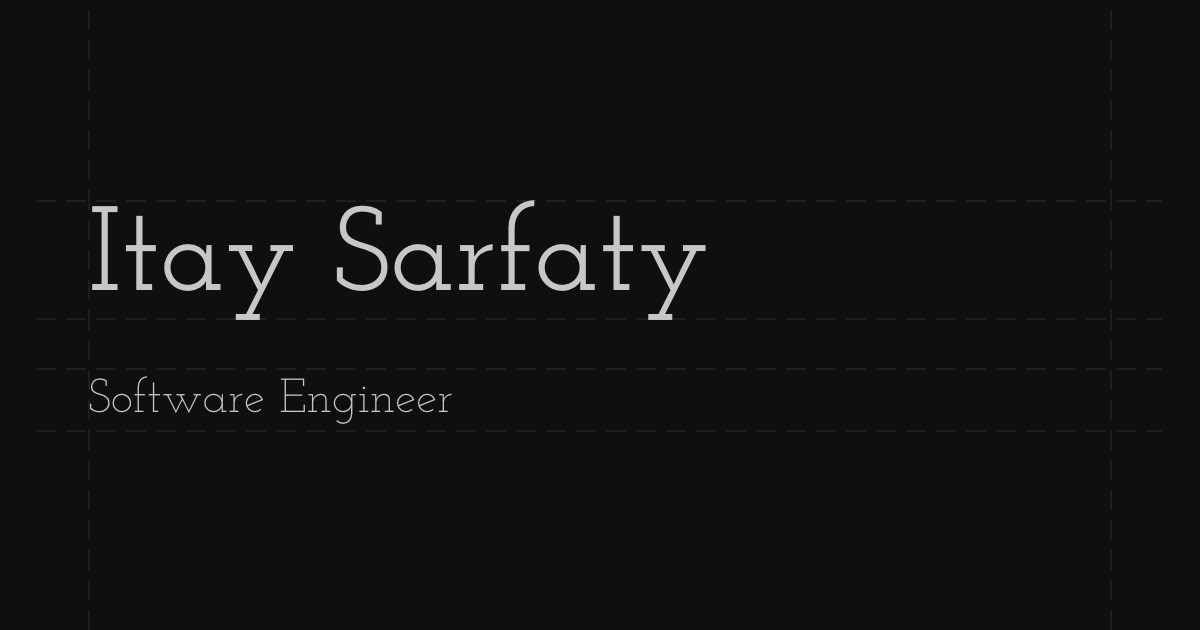
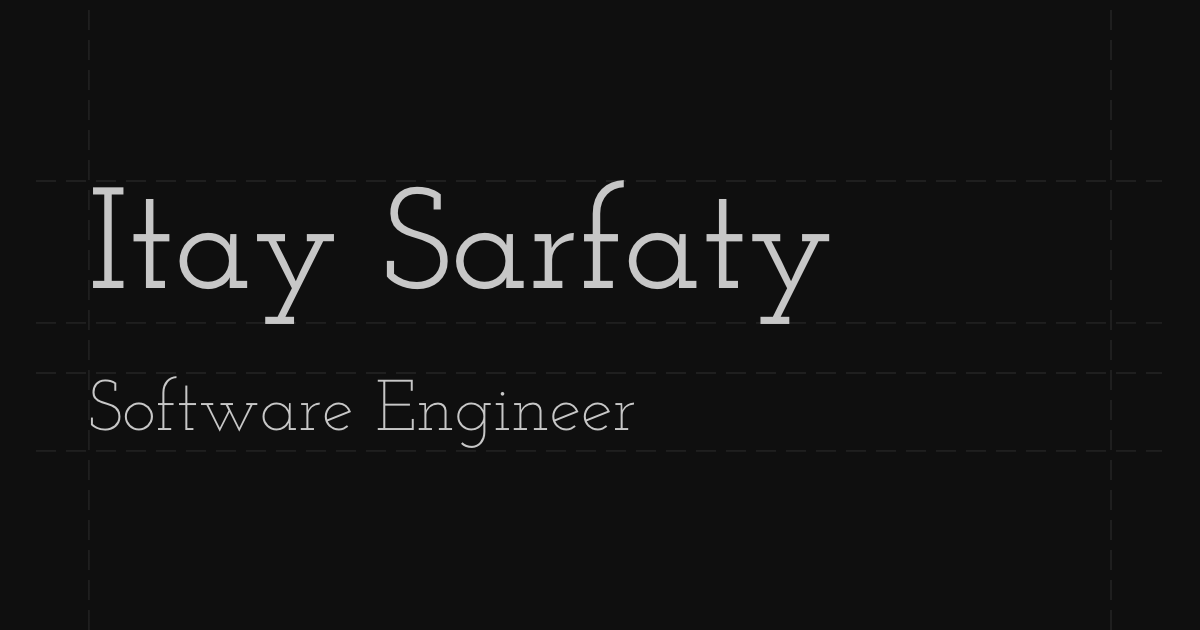
fix: increase og image size

Changed region(s): [[0.0617, 0.2714, 0.7092, 0.5127], [0.0617, 0.6032, 0.5242, 0.6937], [0.4317, 0.3016, 0.4625, 0.3317]]

diff --git a/src/app/(app)/about/page.tsx b/src/app/(app)/about/page.tsx
@@ -16,7 +16,7 @@ export default function AboutPage() {
                 />
                 <Paragraph
                     title="Design"
-                    text="I've always been interested in design, though I don't consider myself super creative. What drives me is creating functional user interfaces that work intuitively. I'm particularly fascinated by the psychology behind effective design, which I actively read about on my own."
+                    text="I've always been interested in design, though I don't consider myself super creative. What drives me is creating functional user interfaces that work intuitively. I'm interested in the psychology behind effective design, which I actively read about on my own."
                 />
                 <Paragraph
                     title="Cooking"

diff --git a/src/app/(app)/(tools)/og-image/page.tsx b/src/app/(app)/(tools)/og-image/page.tsx
@@ -109,12 +109,12 @@ const HeaderContent = forwardRef<
                     >
                         <header className="grid w-full gap-6">
                             <TextScaffold>
-                                <h1 className="text-6xl font-medium">
+                                <h1 className="text-7xl font-medium">
                                     {title || defaultValues.title}
                                 </h1>
                             </TextScaffold>
                             <TextScaffold>
-                                <h2 className="text-2xl">
+                                <h2 className="text-4xl">
                                     {subTitle || defaultValues.subTitle}
                                 </h2>
                             </TextScaffold>
